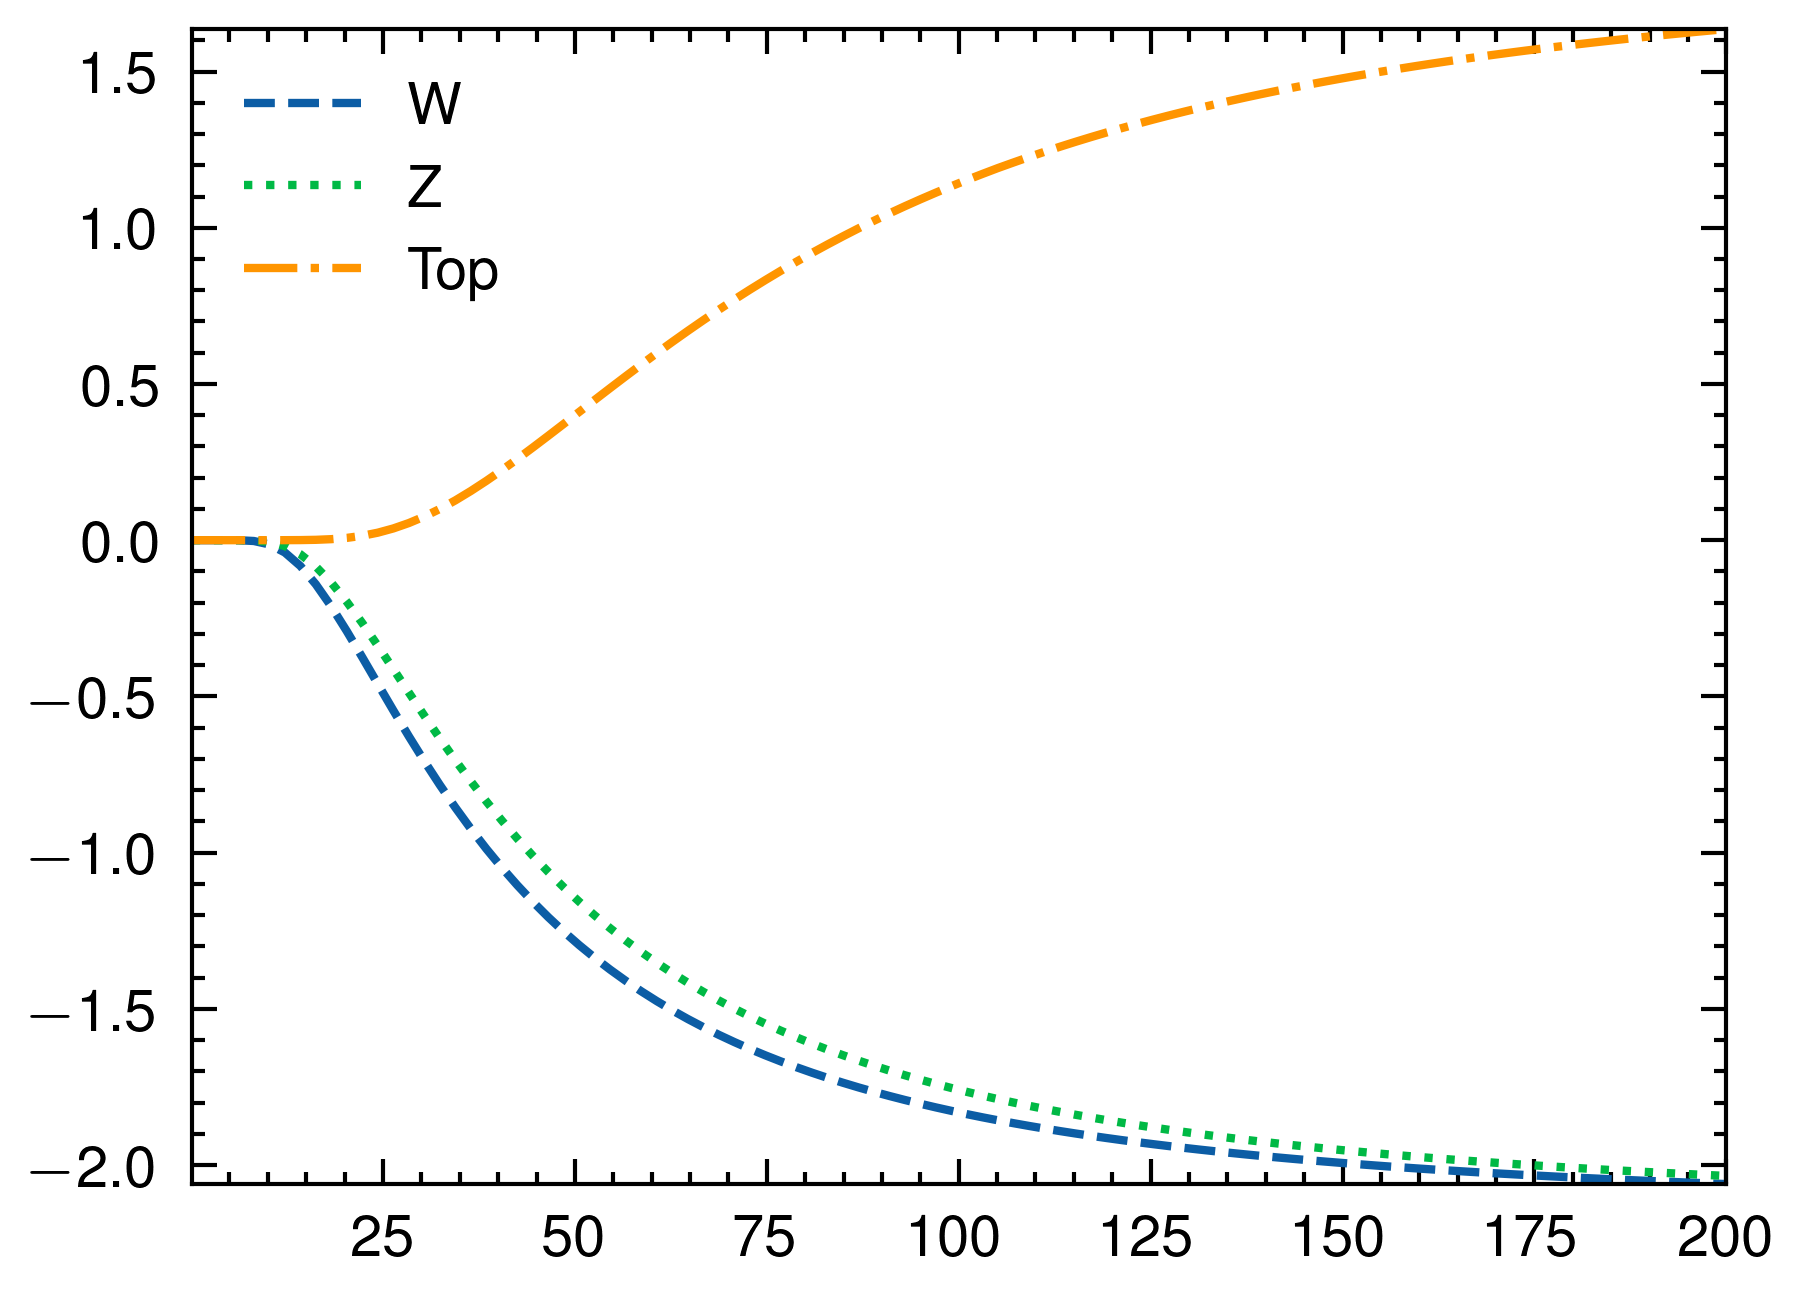
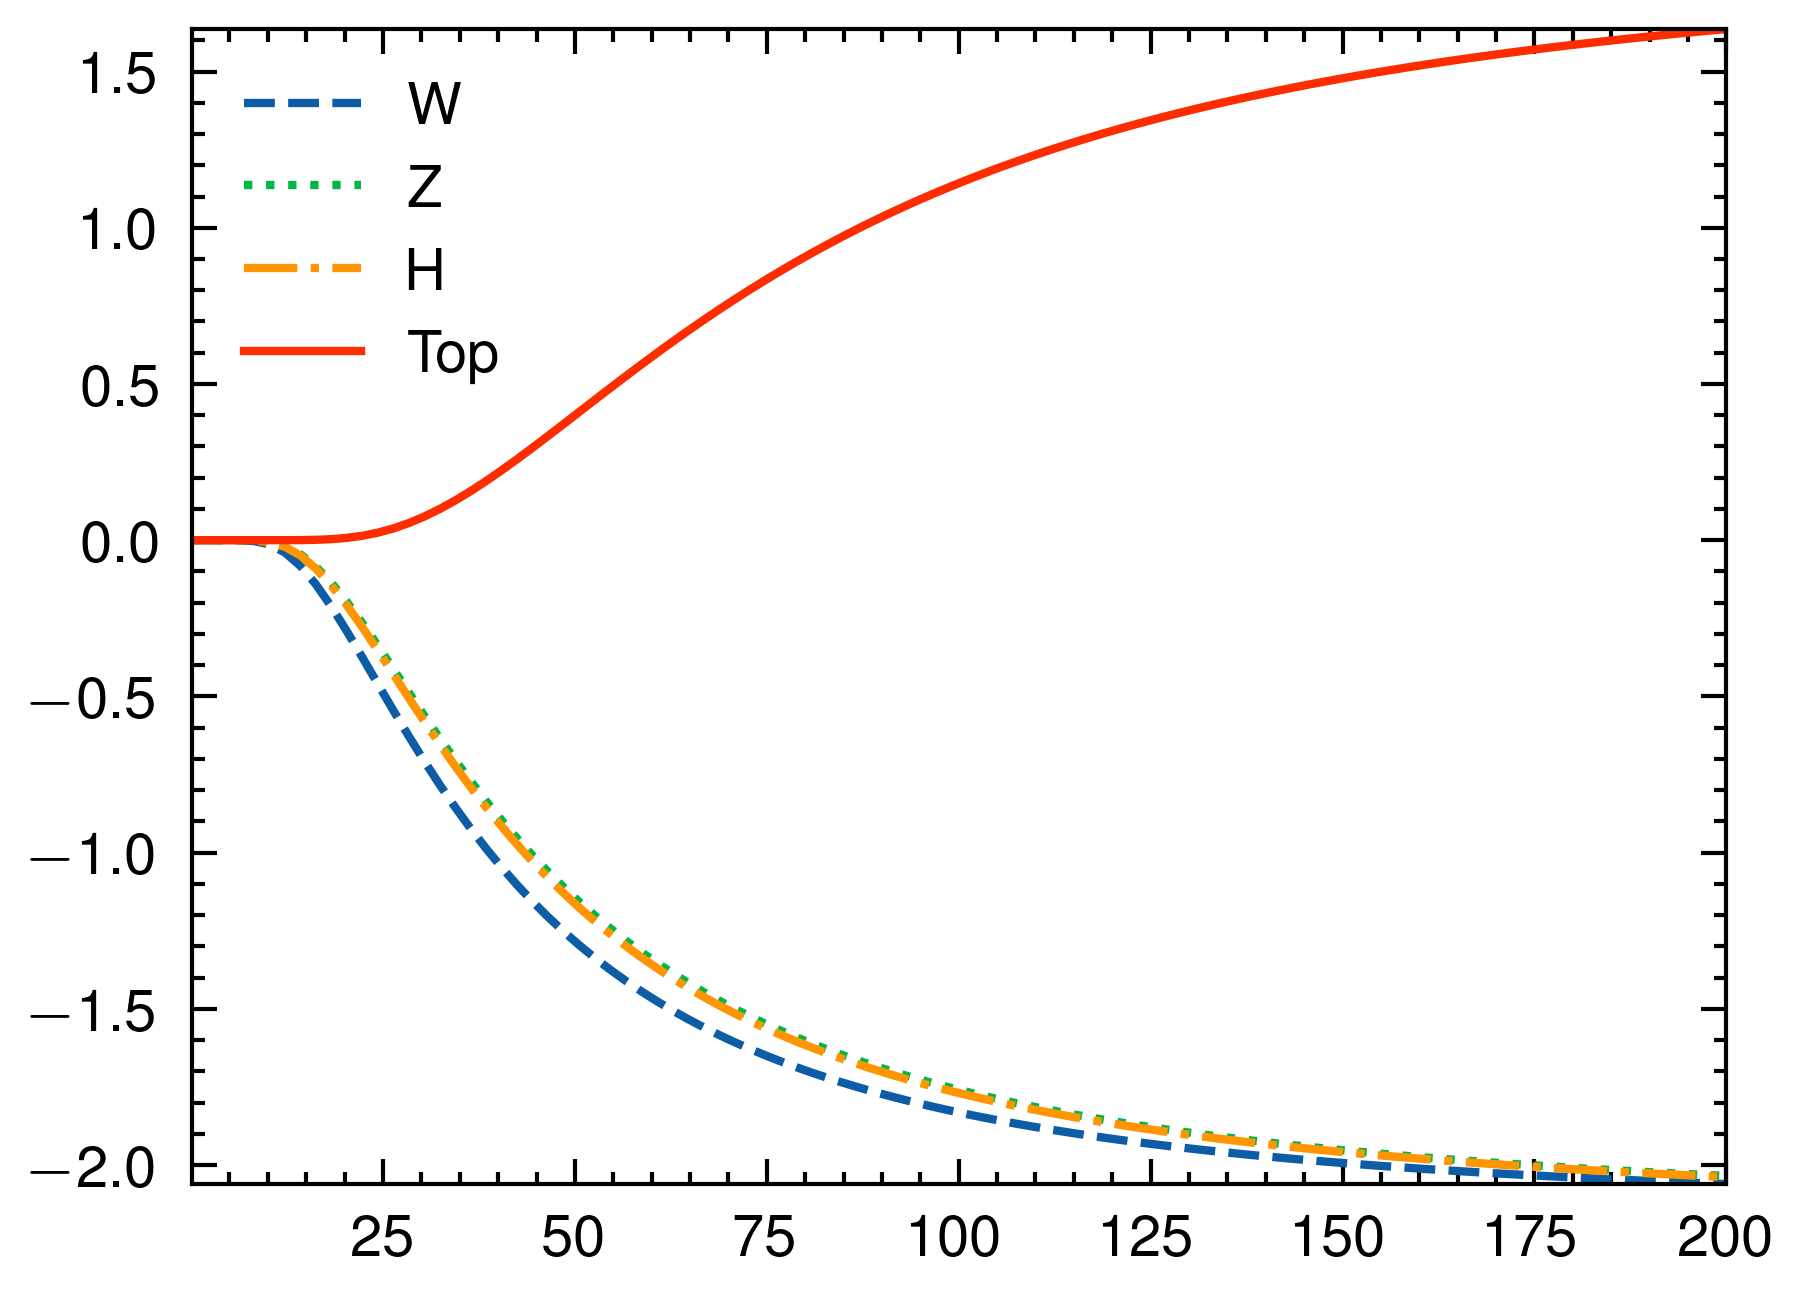
Remove unnecessary plots

diff --git a/src/main.rs b/src/main.rs
@@ -1,6 +1,6 @@
 use peroxide::fuga::*;
 use rayon::prelude::*;
-use indicatif::{ProgressBar, ParallelProgressIterator};
+use indicatif::{ProgressBar, ParallelProgressIterator, ProgressIterator};
 use std::f64::consts::PI;
 
 // Higgs mass
@@ -11,32 +11,34 @@ const GP: f64 = 0.35;
 const YT: f64 = 1.0;
 const NW: usize = 6;
 const NZ: usize = 3;
+const NH: usize = 1;
 #[allow(non_upper_case_globals)]
 const Nt: usize = 12;
 const CW: f64 = 5f64 / 6f64;
 const CZ: f64 = 5f64 / 6f64;
+const CH: f64 = 5f64 / 6f64;
 #[allow(non_upper_case_globals)]
 const Ct: f64 = 3f64 / 2f64;
 
 #[allow(non_snake_case)]
 fn main() {
-    let phi_c_vec = linspace(0, 500, 10000);
-    let V0_vec = phi_c_vec.fmap(V0);
-    let V1loop_vec = phi_c_vec.fmap(V1loop);
-    let V_eff_vec = V0_vec.add_v(&V1loop_vec);
+    //let phi_c_vec = linspace(0, 500, 10000);
+    //let V0_vec = phi_c_vec.fmap(V0);
+    //let V1loop_vec = phi_c_vec.fmap(V1loop);
+    //let V_eff_vec = V0_vec.add_v(&V1loop_vec);
 
-    let mut plt = Plot2D::new();
-    plt
-        .set_domain(phi_c_vec)
-        .insert_image(V0_vec)
-        .insert_image(V1loop_vec)
-        .insert_image(V_eff_vec.clone())
-        .set_ylim((-5e8, 2e8))
-        .set_style(PlotStyle::Nature)
-        .tight_layout()
-        .set_dpi(600)
-        .set_path("one_loop.png")
-        .savefig().unwrap();
+    //let mut plt = Plot2D::new();
+    //plt
+    //    .set_domain(phi_c_vec)
+    //    .insert_image(V0_vec)
+    //    .insert_image(V1loop_vec)
+    //    .insert_image(V_eff_vec.clone())
+    //    .set_ylim((-5e8, 2e8))
+    //    .set_style(PlotStyle::Nature)
+    //    .tight_layout()
+    //    .set_dpi(600)
+    //    .set_path("one_loop.png")
+    //    .savefig().unwrap();
 
     let T_vec = linspace(0.1, 200, 100);
 
@@ -45,40 +47,42 @@ fn main() {
         .map(|&T| {
             let J_B_W = J_B(246f64, T, Boson::W);
             let J_B_Z = J_B(246f64, T, Boson::Z);
+            let J_B_H = J_B(246f64, T, Boson::H);
             let J_F_Top = J_F(246f64, T, Fermion::Top);
-            ((J_B_W, J_B_Z), J_F_Top)
+            (((J_B_W, J_B_Z), J_B_H),J_F_Top)
         })
         .collect::<Vec<_>>();
 
-    let ((J_B_W, J_B_Z), J_F_Top): ((Vec<f64>, Vec<f64>), Vec<f64>) = result.into_iter().unzip();
+    let (((J_B_W, J_B_Z), J_B_H),J_F_Top): (((Vec<f64>, Vec<f64>), Vec<f64>), Vec<f64>) = result.into_iter().unzip();
 
-    let V1loop_thermal_vec = T_vec.par_iter()
-        .map(|&T| V1loop_thermal(246f64, T))
-        .collect::<Vec<_>>();
+    //let V1loop_thermal_vec = T_vec.par_iter()
+    //    .map(|&T| V1loop_thermal(246f64, T))
+    //    .collect::<Vec<_>>();
 
     let mut plt = Plot2D::new();
     plt
         .set_domain(T_vec.clone())
         .insert_image(J_B_W)
         .insert_image(J_B_Z)
+        .insert_image(J_B_H)
         .insert_image(J_F_Top)
         .set_style(PlotStyle::Nature)
-        .set_legend(vec!["W", "Z", "Top"])
-        .set_line_style(vec![(0, LineStyle::Dashed), (1, LineStyle::Dotted), (2, LineStyle::DashDot)])
+        .set_legend(vec!["W", "Z", "H", "Top"])
+        .set_line_style(vec![(0, LineStyle::Dashed), (1, LineStyle::Dotted), (2, LineStyle::DashDot), (3, LineStyle::Solid)])
         .tight_layout()
         .set_dpi(600)
         .set_path("J.png")
         .savefig().unwrap();
 
-    let mut plt = Plot2D::new();
-    plt
-        .set_domain(T_vec)
-        .insert_image(V1loop_thermal_vec)
-        .set_style(PlotStyle::Nature)
-        .set_dpi(600)
-        .tight_layout()
-        .set_path("one_loop_thermal_T.png")
-        .savefig().unwrap();
+    //let mut plt = Plot2D::new();
+    //plt
+    //    .set_domain(T_vec)
+    //    .insert_image(V1loop_thermal_vec)
+    //    .set_style(PlotStyle::Nature)
+    //    .set_dpi(600)
+    //    .tight_layout()
+    //    .set_path("one_loop_thermal_T.png")
+    //    .savefig().unwrap();
 
     let phi_c_vec = linspace(0, 500, 100);
     let V0 = phi_c_vec.fmap(V0);
@@ -112,19 +116,38 @@ fn main() {
         .savefig().unwrap();
 
     let phi_c_vec = linspace(0, 500, 100);
-    let T_vec = vec![50f64, 200f64, 300f64];
-    let V1loop_thermal_vec = T_vec.par_iter()
+    let T_vec = [50f64, 200f64, 300f64];
+    let V1loop_thermal_vec = T_vec.iter()
         .progress_with(ProgressBar::new(T_vec.len() as u64))
-        .map(|&T| phi_c_vec.clone().fmap(|phi_c| V1loop_thermal(phi_c, T)))
+        .map(|&T| phi_c_vec.par_iter().map(|&phi_c| V1loop_thermal(phi_c, T)).collect::<Vec<_>>())
         .collect::<Vec<_>>();
     let V1loop_thermal_vec = V1loop_thermal_vec
         .into_iter()
         .map(|v| v.sub_s(v[0]))
         .collect::<Vec<_>>();
     let V_tot_vec = V1loop_thermal_vec
+        .clone()
         .into_iter()
         .map(|v| v.add_v(&V_eff))
         .collect::<Vec<_>>();
+
+    let mut plt = Plot2D::new();
+    plt.set_domain(phi_c_vec.clone());
+    for V1loop_thermal in V1loop_thermal_vec {
+        plt.insert_image(V1loop_thermal);
+    }
+    plt
+        .set_legend(vec![r"$T = 50$", r"$T = 200$", r"$T = 300$"])
+        .set_line_style(vec![(0, LineStyle::Dashed), (1, LineStyle::Dotted), (2, LineStyle::DashDot)])
+        .set_color(vec![(0, "red"), (1, "darkblue"), (2, "darkgreen")])
+        .set_style(PlotStyle::Nature)
+        .set_xlabel(r"$\phi_c$")
+        .set_ylabel(r"$\Delta V_{(1)}(\phi_c, T)$")
+        .set_ylim((-1e6, 3e7))
+        .set_dpi(600)
+        .tight_layout()
+        .set_path("V_thermal.png")
+        .savefig().unwrap();
 
     let mut plt = Plot2D::new();
     plt.set_domain(phi_c_vec);
@@ -158,6 +181,14 @@ pub fn m_t(phi_c: f64) -> f64 {
     (0.5 * YT.powi(2) * phi_c.powi(2)).sqrt()
 }
 
+pub fn m_h(phi_c: f64) -> f64 {
+    (-MH.powi(2) + 3f64 * LAMBDAC * phi_c.powi(2)).abs().sqrt()
+}
+
+pub fn m_h2(phi_c: f64) -> f64 {
+    -MH.powi(2) + 3f64 * LAMBDAC * phi_c.powi(2)
+}
+
 #[allow(non_snake_case)]
 pub fn V0(phi_c: f64) -> f64 {
     -0.5 * MH.powi(2) * phi_c.powi(2) + 0.25 * LAMBDAC * phi_c.powi(4)
@@ -167,10 +198,12 @@ pub fn V0(phi_c: f64) -> f64 {
 pub fn V1loop(phi_c: f64) -> f64 {
     let m_W = m_W(phi_c);
     let m_Z = m_Z(phi_c);
+    let m_h = m_h(phi_c);
     let m_t = m_t(phi_c);
     1f64 / (64f64 * PI.powi(2)) * (
         NW as f64 * m_W.powi(4) * ((m_W.powi(2) / MH.powi(2)).ln() - CW)
         + NZ as f64 * m_Z.powi(4) * ((m_Z.powi(2) / MH.powi(2)).ln() - CZ)
+        + NH as f64 * m_h.powi(4) * ((m_h.powi(2) / MH.powi(2)).ln() - CH)
         - Nt as f64 * m_t.powi(4) * ((m_t.powi(2) / MH.powi(2)).ln() - Ct)
     )
 }
@@ -178,7 +211,8 @@ pub fn V1loop(phi_c: f64) -> f64 {
 #[derive(Debug, Copy, Clone)]
 pub enum Boson {
     W,
-    Z
+    Z,
+    H
 }
 
 #[derive(Debug, Copy, Clone)]
@@ -191,12 +225,31 @@ pub fn J_B(phi_c: f64, T: f64, boson: Boson) -> f64 {
     let m_B_T = match boson {
         Boson::W => m_W(phi_c).powi(2) / T.powi(2),
         Boson::Z => m_Z(phi_c).powi(2) / T.powi(2),
+        Boson::H => m_h(phi_c).powi(2) / T.powi(2),
     };
     let lambda = 100f64;
-    let f = |t: f64| {
-        t.powi(2) * (1f64 - (-((lambda * t).powi(2) + m_B_T).sqrt()).exp()).ln()
-    };
-    lambda.powi(3) * integrate(f, (0f64, 1f64), G7K15R(1e-3, 15))
+    match boson {
+        Boson::H => {
+            let f = |t: f64| {
+                let lambda_t2 = (lambda * t).powi(2);
+                let m_B_T = m_h2(phi_c) / T.powi(2);
+                let sum = m_B_T + lambda_t2;
+                if sum >= 0f64 {
+                    t.powi(2) * (1f64 - (-sum.sqrt()).exp()).ln()
+                } else {
+                    let sum = sum.abs();
+                    t.powi(2) * (2f64 * ((0.5f64 * sum.sqrt()).sin().abs())).ln()
+                }
+            };
+            lambda.powi(3) * integrate(f, (0f64, 1f64), G7K15R(1e-3, 15))
+        },
+        _ => {
+            let f = |t: f64| {
+                t.powi(2) * (1f64 - (-((lambda * t).powi(2) + m_B_T).sqrt()).exp()).ln()
+            };
+            lambda.powi(3) * integrate(f, (0f64, 1f64), G7K15R(1e-3, 15))
+        }
+    }
 }
 
 #[allow(non_snake_case)]
@@ -215,6 +268,7 @@ pub fn J_F(phi_c: f64, T: f64, fermion: Fermion) -> f64 {
 pub fn V1loop_thermal(phi_c: f64, T: f64) -> f64 {
     let J_W = J_B(phi_c, T, Boson::W);
     let J_Z = J_B(phi_c, T, Boson::Z);
+    let J_H = J_B(phi_c, T, Boson::H);
     let J_Top = J_F(phi_c, T, Fermion::Top);
-    T.powi(4) / (2f64 * PI.powi(2)) * (NW as f64 * J_W + NZ as f64 * J_Z - Nt as f64 * J_Top)
+    T.powi(4) / (2f64 * PI.powi(2)) * (NW as f64 * J_W + NZ as f64 * J_Z + NH as f64 * J_H - Nt as f64 * J_Top)
 }

diff --git a/README.md b/README.md
@@ -48,6 +48,9 @@ This will execute the `main` function in `src/main.rs`, which performs the follo
 - One loop thermal corrections
   ![one_loop_thermal_phi_c.png](one_loop_thermal_phi_c.png)
 
+- One loop thermal corrections at different temperatures
+  ![V_thermal.png](V_thermal.png)
+
 - Total potential
   ![V_tot.png](V_tot.png)
 
